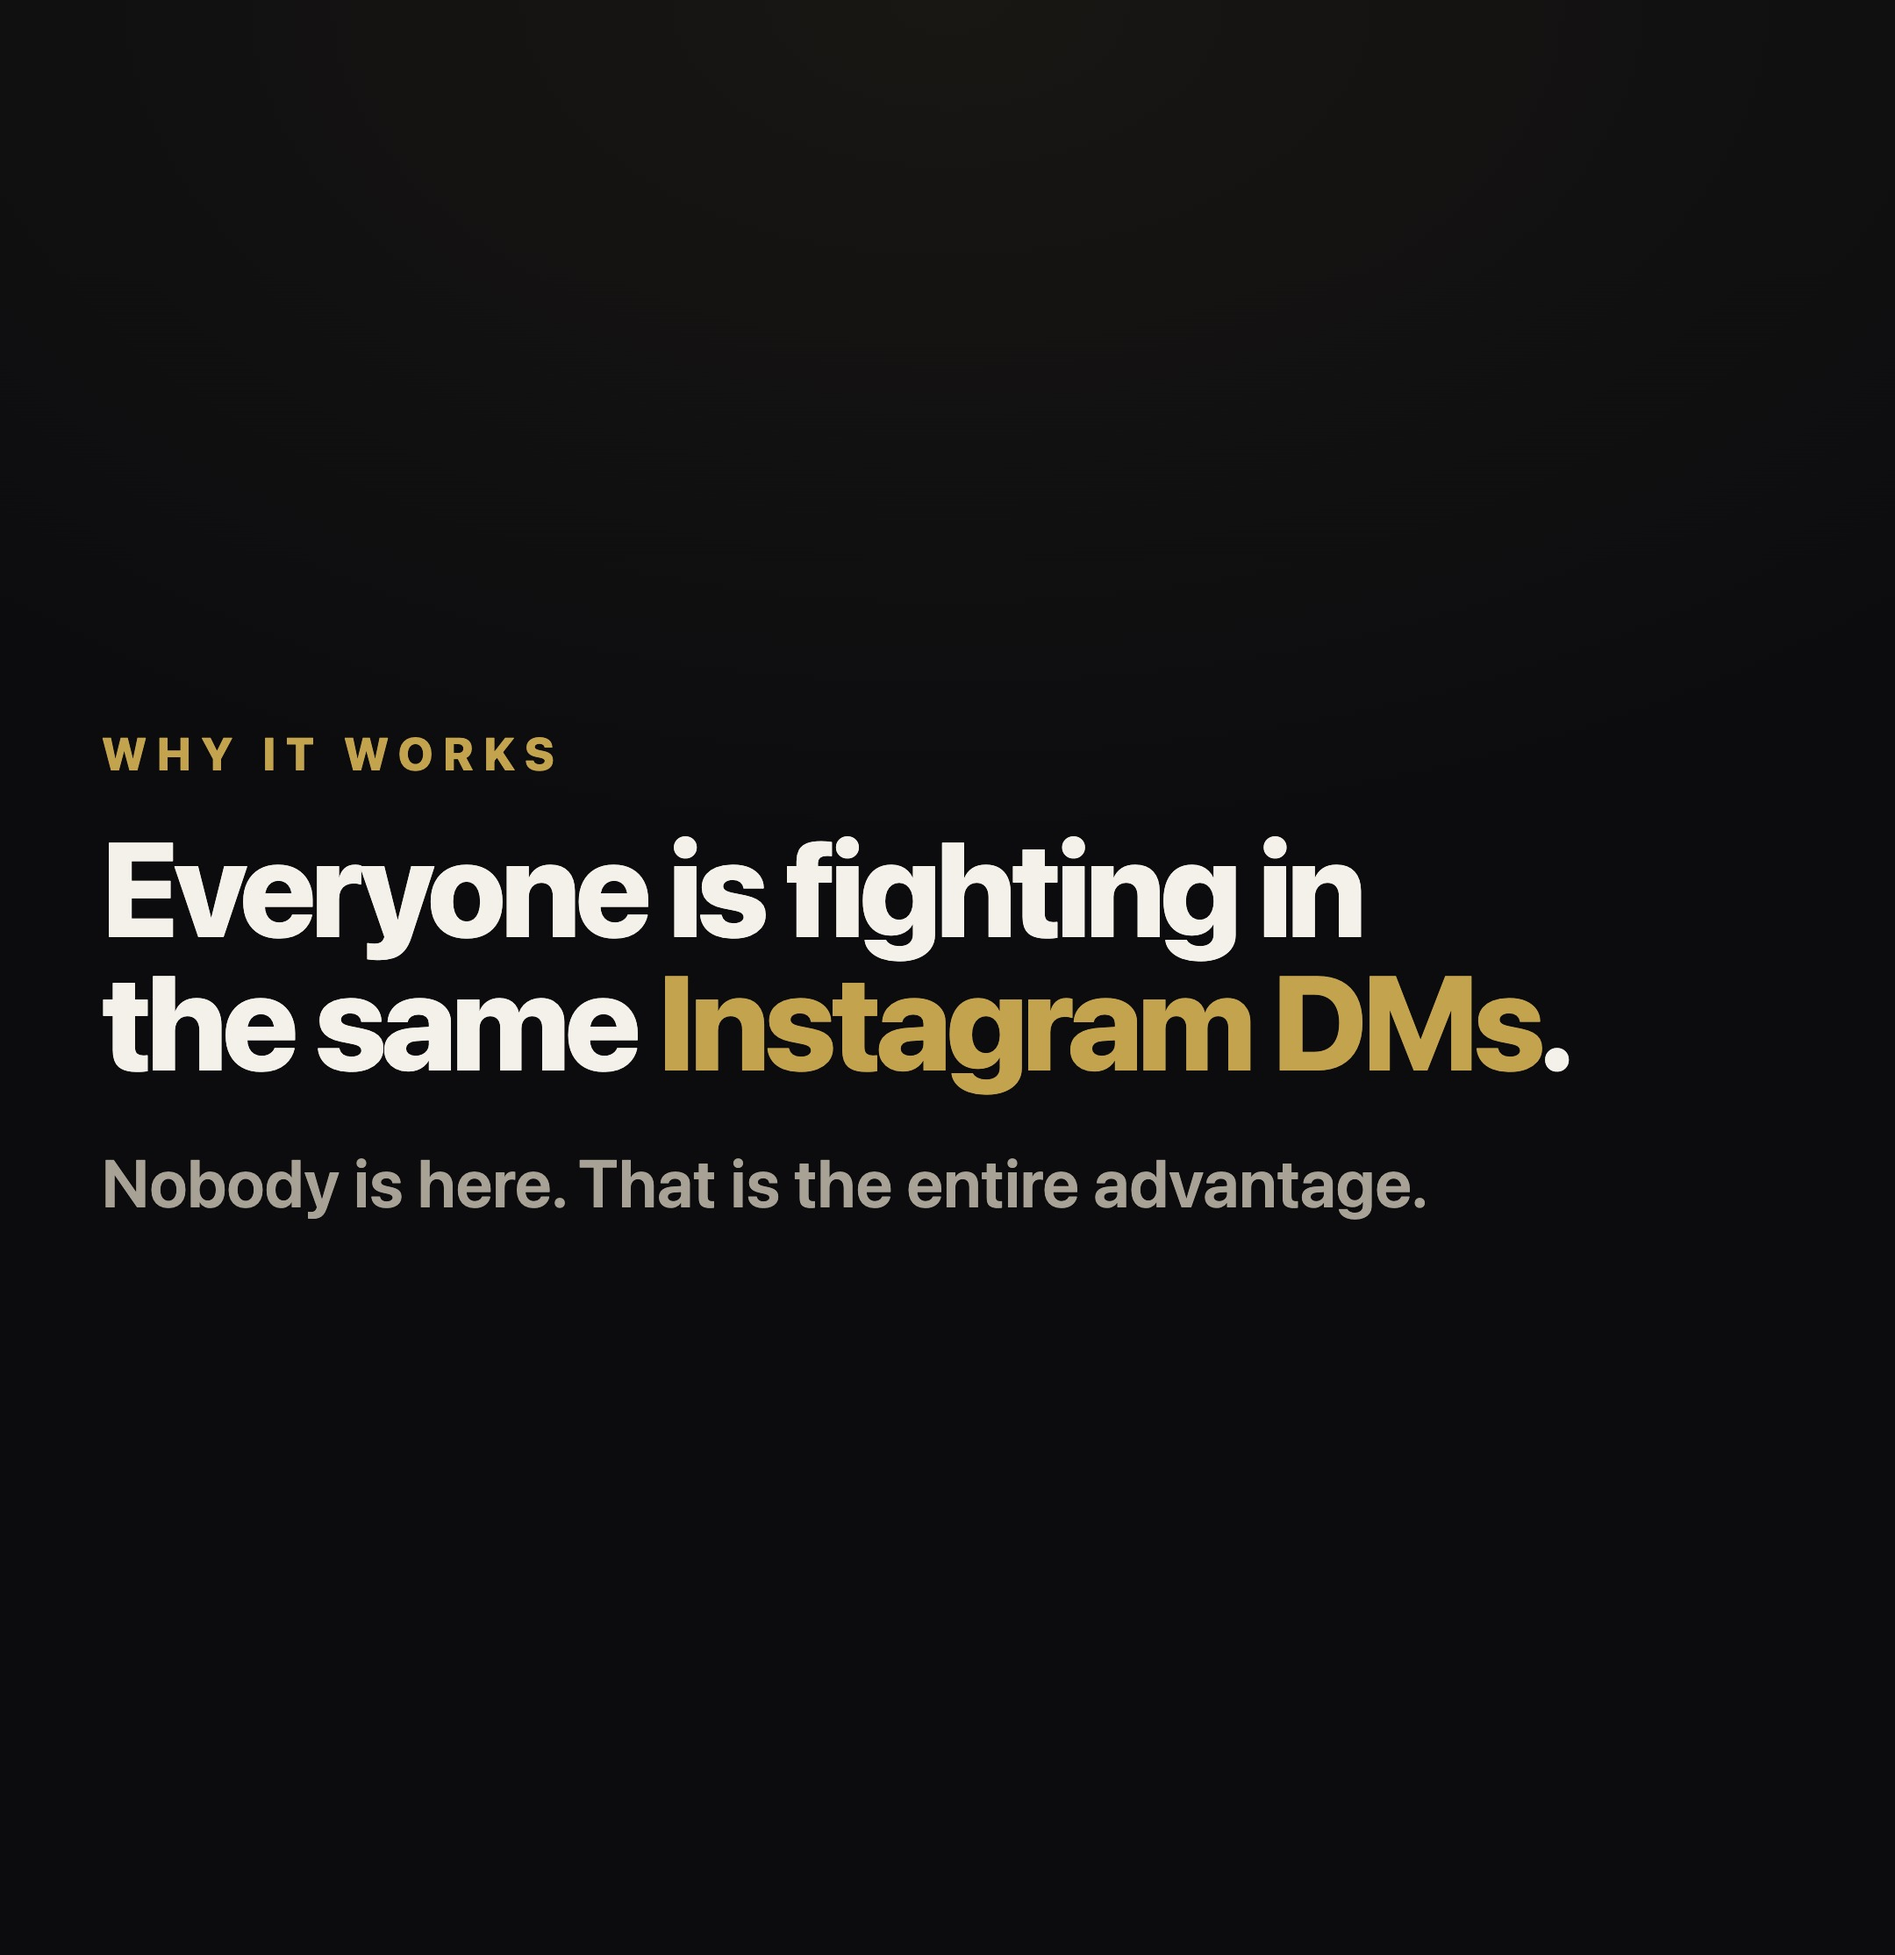
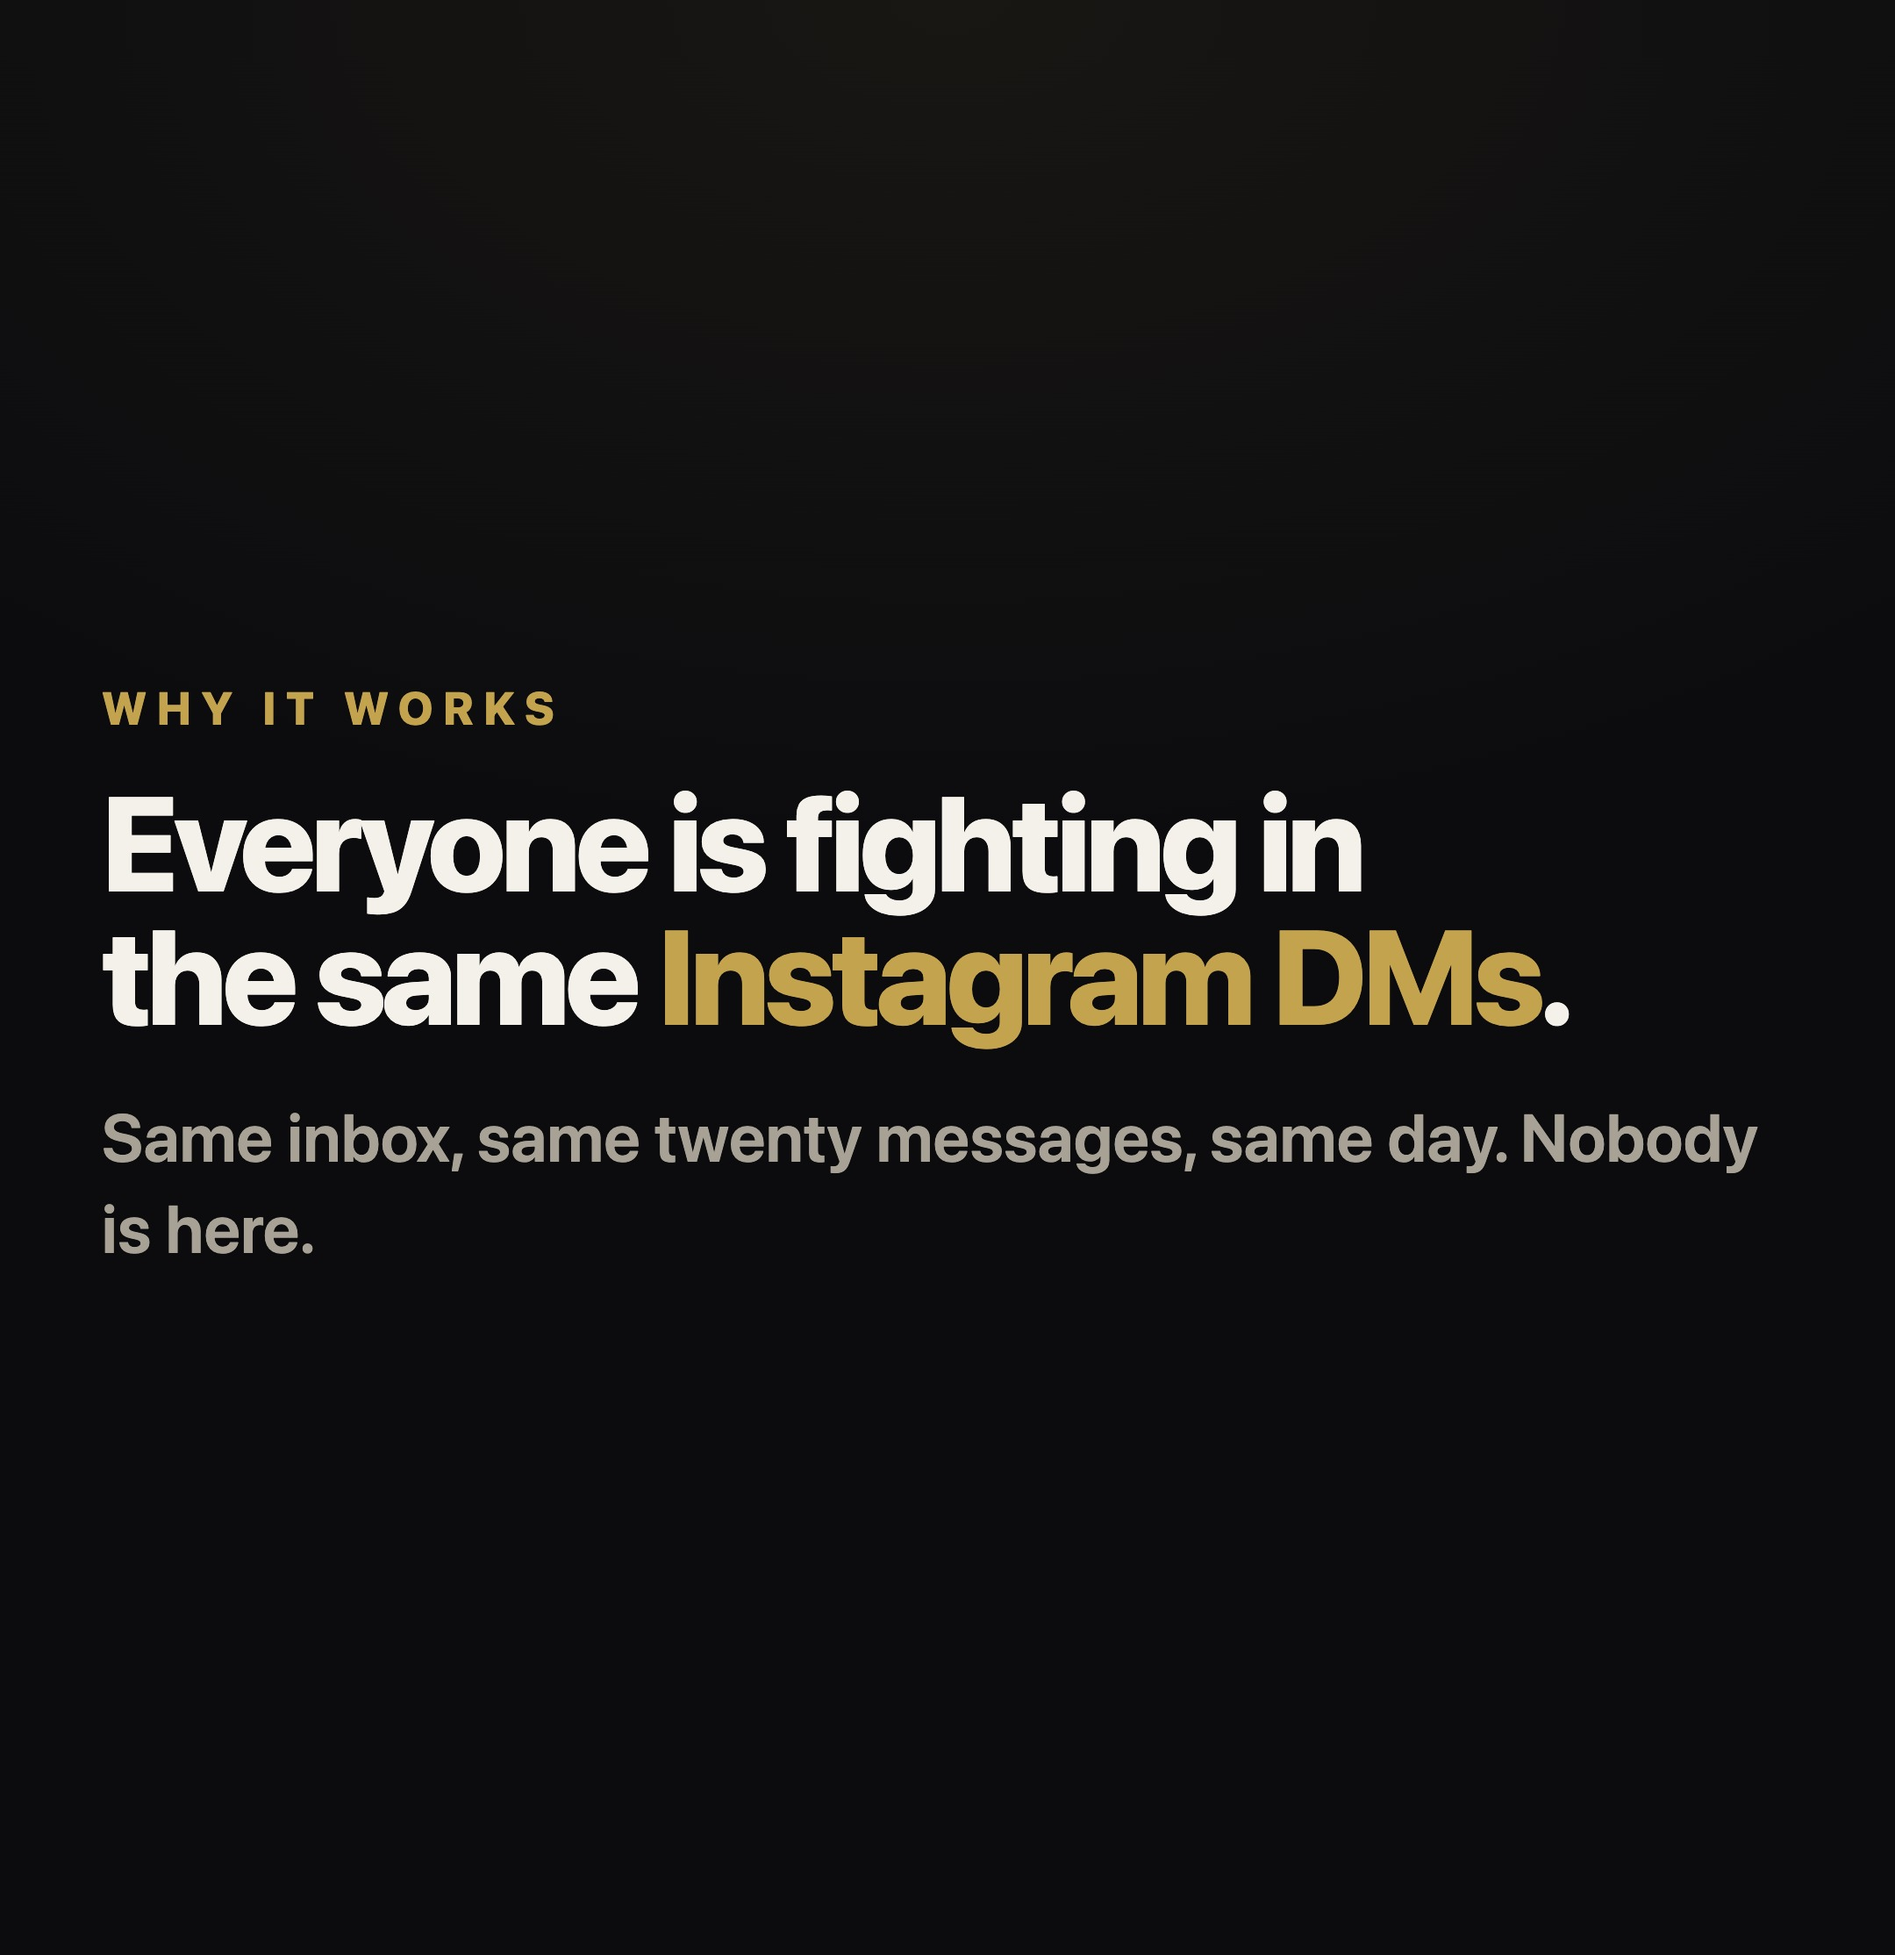
Chess board: new hook, chess.com branding, and fix the messaging beat
I had the mechanic wrong. You CAN message a chess.com member directly: open the
profile, three dots, Chat. The old version claimed you had to play them because
there was no inbox, which was simply false. Replaced with Ziyad's two screenshots
of the menu and the open chat box.

New hook per Ziyad: 'The most underrated client acquisition strategy right now is
chess.com. I'm not joking.' chess.com badge, green pawn and wordmark, on the
opening, search and CTA frames.

The angle is now stronger than the old one anyway: his Instagram has forty
pitches in it, his chess.com inbox has never had one. Same person, different odds.

Playing them first survives as advice rather than as a constraint, in a
do-it-properly frame alongside checking the profile is still alive and opening
about the chess rather than the offer.

CTA is now the full SOP: searches, swaps, picking a live profile, the opener.

13 beats.

Claude-Session: https://claude.ai/code/session_01X1ssoJRy9jKoEWSTikS6cS

Changed region(s): [[0.031, 0.3407, 0.9306, 0.6504]]

diff --git a/frames-chess.html b/frames-chess.html
@@ -6,6 +6,7 @@
 <style>
   :root{
     --gold:#C4A34F; --gold-soft:#dcc07d; --ink:#f4f1ea; --mut:#a8a296; --bg:#0c0c0f;
+    --cc:#81b64c;
     --sans:system-ui,-apple-system,"Segoe UI",Roboto,Helvetica,Arial,sans-serif;
     --mono:ui-monospace,SFMono-Regular,Menlo,Consolas,monospace;
   }
@@ -16,61 +17,74 @@
     color:var(--ink);padding:60px 58px;display:flex;flex-direction:column;justify-content:center;
     position:relative;overflow:hidden}
   .eb{font-size:26px;letter-spacing:.22em;text-transform:uppercase;color:var(--gold);font-weight:800;margin-bottom:24px}
-  h1{font-size:100px;line-height:1.0;font-weight:800;letter-spacing:-.035em;text-wrap:balance}
+  h1{font-size:96px;line-height:1.0;font-weight:800;letter-spacing:-.035em;text-wrap:balance}
   h1.sm{font-size:76px}
   h1.xs{font-size:62px}
   h1 span{color:var(--gold)}
+  h1 .cc{color:var(--cc)}
   .sub{font-size:38px;line-height:1.38;color:var(--mut);font-weight:600;margin-top:28px}
 
-  /* the search string, treated like a product */
+  /* chess.com badge, top right */
+  .cbadge{position:absolute;top:48px;right:52px;display:flex;align-items:center;gap:14px}
+  .cbadge .pawn{width:58px;height:58px;border-radius:14px;background:var(--cc);
+    display:flex;align-items:center;justify-content:center;font-size:38px;line-height:1;color:#14340a}
+  .cbadge .wm{font-size:30px;font-weight:800;letter-spacing:-.02em;color:#e8e6e1}
+  .cbadge .wm i{font-style:normal;color:var(--cc)}
+
   .q{font-family:var(--mono);font-size:40px;font-weight:700;color:var(--gold-soft);
     border:2px solid rgba(196,163,79,.45);border-radius:18px;padding:30px 28px;
     background:rgba(196,163,79,.07);line-height:1.35;word-break:break-word;margin-top:12px}
   .qnote{font-family:var(--mono);font-size:24px;color:#6f6a5c;letter-spacing:.06em;margin-top:18px}
 
-  /* swap list */
   .swaps{display:flex;flex-direction:column;gap:14px;margin-top:10px}
   .sw{border:2px solid rgba(255,255,255,.09);border-radius:16px;padding:20px 24px;
     background:rgba(255,255,255,.02);font-family:var(--mono);font-size:32px;color:var(--gold-soft)}
 
-  .steps{display:flex;flex-direction:column;gap:16px;margin-top:8px}
+  .steps{display:flex;flex-direction:column;gap:18px;margin-top:8px}
   .st{display:flex;align-items:flex-start;gap:22px}
   .st .n{font-family:var(--mono);font-size:30px;font-weight:800;color:var(--gold);
     width:54px;flex:0 0 54px;padding-top:6px}
   .st .t{font-size:40px;font-weight:700;line-height:1.25}
   .st .t small{display:block;font-size:29px;font-weight:600;color:var(--mut);margin-top:6px}
+
+  .route{display:flex;flex-direction:column;gap:12px;margin-top:14px}
+  .rt{display:flex;align-items:center;gap:18px;border:2px solid rgba(129,182,76,.35);
+    border-radius:16px;padding:20px 24px;background:rgba(129,182,76,.07);font-size:36px;font-weight:700}
+  .rt b{font-family:var(--mono);font-size:26px;color:var(--cc);font-weight:800}
 </style>
 </head>
 <body>
 
 <!-- c1 · HOOK -->
 <div class="f" id="c1">
-  <h1>I found a business owner on <span>chess.com</span>.</h1>
-  <div class="sub">On purpose.</div>
+  <div class="cbadge"><div class="pawn">&#9823;</div><div class="wm">chess<i>.com</i></div></div>
+  <h1>The most underrated client acquisition strategy right now is <span class="cc">chess.com</span>.</h1>
+  <div class="sub">I'm not joking. Give me twenty seconds.</div>
 </div>
 
 <!-- c2 · the gap -->
 <div class="f" id="c2">
   <div class="eb">Why it works</div>
   <h1 class="sm">Everyone is fighting in the same <span>Instagram DMs</span>.</h1>
-  <div class="sub">Nobody is here. That is the entire advantage.</div>
+  <div class="sub">Same inbox, same twenty messages, same day. Nobody is here.</div>
 </div>
 
 <!-- c3 · the search string -->
 <div class="f" id="c3">
+  <div class="cbadge"><div class="pawn">&#9823;</div><div class="wm">chess<i>.com</i></div></div>
   <div class="eb">Paste this into Google</div>
   <div class="q">site:chess.com/member "business"</div>
   <div class="qnote">that is it. that is the whole tool.</div>
 </div>
 
-<!-- c4 · what you are actually reading -->
+<!-- c4 · why this works at all -->
 <div class="f" id="c4">
   <div class="eb">What just happened</div>
-  <h1 class="xs">Chess.com profiles have a <span>bio</span>.<br>Google reads it.</h1>
+  <h1 class="xs">Chess.com profiles have a <span>bio</span>.<br>Google reads every one of them.</h1>
   <div class="sub">People write what they do for a living in there, and it sits on a public page nobody thinks to search.</div>
 </div>
 
-<!-- c5 · swap the word -->
+<!-- c5 · swaps -->
 <div class="f" id="c5">
   <div class="eb">Swap the word for your market</div>
   <div class="swaps">
@@ -81,34 +95,40 @@
   </div>
 </div>
 
-<!-- c6 · the turn -->
+<!-- c6 · you can just message them -->
 <div class="f" id="c6">
-  <h1 class="sm">You cannot DM him.</h1>
-  <div class="sub">There is no inbox to slide into. To talk to this man you have to <b style="color:var(--gold-soft)">play him at chess</b>.</div>
+  <div class="cbadge"><div class="pawn">&#9823;</div><div class="wm">chess<i>.com</i></div></div>
+  <h1 class="sm">And you can just <span class="cc">message them</span>.</h1>
+  <div class="route">
+    <div class="rt"><b>1</b>Open the profile</div>
+    <div class="rt"><b>2</b>Hit the three dots</div>
+    <div class="rt"><b>3</b>Chat</div>
+  </div>
 </div>
 
-<!-- c7 · why the friction is the point -->
+<!-- c7 · the angle -->
 <div class="f" id="c7">
-  <div class="eb">And that is the good part</div>
-  <h1 class="xs">Forty minutes of a stranger's <span>full attention</span>.</h1>
-  <div class="sub">No DM on earth gets that. You are in a game with him, not in a notification he swipes away.</div>
+  <div class="eb">And this is the part that matters</div>
+  <h1 class="xs">Your message is the only one in there.</h1>
+  <div class="sub">His Instagram has forty pitches in it. His chess.com inbox has never had one. Same person, completely different odds.</div>
 </div>
 
-<!-- c8 · how to actually do it -->
+<!-- c8 · how to not be weird about it -->
 <div class="f" id="c8">
-  <div class="eb">If you actually try it</div>
+  <div class="eb">Do it properly</div>
   <div class="steps">
-    <div class="st"><div class="n">1</div><div class="t">Run the search<small>swap the word for your market</small></div></div>
-    <div class="st"><div class="n">2</div><div class="t">Open a profile that is still active<small>check last online, plenty have not logged in since 2013</small></div></div>
-    <div class="st"><div class="n">3</div><div class="t">Challenge, do not pitch<small>play the game first. Talk after.</small></div></div>
+    <div class="st"><div class="n">1</div><div class="t">Check they still log in<small>plenty of these profiles have been dead since 2013</small></div></div>
+    <div class="st"><div class="n">2</div><div class="t">Play them first<small>challenge, lose, then talk. You are a person, not a pitch</small></div></div>
+    <div class="st"><div class="n">3</div><div class="t">Mention the chess, not the offer<small>you found him on a chess site. Open like a human would</small></div></div>
   </div>
 </div>
 
 <!-- c9 · CTA -->
 <div class="f" id="c9">
-  <div class="eb">The search</div>
-  <h1 class="sm">Comment <span>CHESS</span></h1>
-  <div class="sub">and I'll send you the exact string plus the swaps for your market.</div>
+  <div class="cbadge"><div class="pawn">&#9823;</div><div class="wm">chess<i>.com</i></div></div>
+  <div class="eb">The whole thing, written up</div>
+  <h1 class="sm">Comment <span class="cc">CHESS</span></h1>
+  <div class="sub">and I'll send you the full SOP: the searches, the swaps, how to pick a live profile and the exact opener.</div>
 </div>
 
 </body>

diff --git a/index.html b/index.html
@@ -236,17 +236,19 @@
     },
 
     'chess-outreach': { name: 'Chess.com outreach \u00b7 the search nobody runs', beats: [
-  {img:'img/c1.jpg', s:"I found a business owner on chess dot com. On purpose. And I can show you the exact search in about twenty seconds."},
+  {img:'img/c1.jpg', s:"The most underrated client acquisition strategy right now is chess dot com. I'm not joking. Give me twenty seconds."},
   {img:'img/c2.jpg', s:"Everyone doing outreach is fighting over the same Instagram DMs. Same inbox, same twenty messages, same day. Nobody is here."},
   {img:'img/c3.jpg', s:"Paste this into Google. site colon chess dot com slash member, in quotes, business. That is the whole tool."},
   {img:'img/c-search.png', s:"And this comes back. Real profiles, and look at the second one. I own a small business in Florida. He wrote that himself."},
-  {img:'img/c4.jpg', s:"Because chess dot com profiles have a bio, and Google reads it. People put what they do for a living in there and it sits on a public page nobody thinks to search."},
-  {img:'img/c-profile.png', s:"So you click through and you get his name, his town, his bio, and a button to contact him. That is more than most scraped lead lists give you."},
-  {img:'img/c5.jpg', s:"Swap the word for whatever market you sell to. Founder. Agency. Ecommerce. I own a. Each one pulls a different set of people."},
-  {img:'img/c6.jpg', s:"Now the bit that makes this different. You cannot DM him. There is no inbox to slide into. If you want to talk to this man you have to play him at chess."},
-  {img:'img/c7.jpg', s:"Which sounds like the problem, but it is the whole point. Forty minutes in a game is more of a stranger's attention than any DM has ever got."},
-  {img:'img/c8.jpg', s:"If you actually try it, three things. Run the search. Check they are still active, half these profiles have not logged in since twenty thirteen. And challenge them, do not pitch them. Play first, talk after."},
-  {img:'img/c9.jpg', s:"Comment CHESS and I'll send you the string and the swaps. And no, I did not win."}
+  {img:'img/c4.jpg', s:"Because chess dot com profiles have a bio, and Google reads every one of them. People put what they do for a living in there and it sits on a public page nobody thinks to search."},
+  {img:'img/c-profile.png', s:"Click through and you get his name, his town, what he does, and how to contact him. That is more than most paid lead lists give you."},
+  {img:'img/c5.jpg', s:"Swap the word for whatever market you sell to. Founder. Agency. Ecommerce. I own a. Each one pulls a completely different set of people."},
+  {img:'img/c6.jpg', s:"And you can just message them. Open the profile, hit the three dots, press chat."},
+  {img:'img/c-menu.png', s:"It is right there. Chat, or message if they are not online."},
+  {img:'img/c-chat.png', s:"And that is a direct line to a business owner, on a website nobody is prospecting on."},
+  {img:'img/c7.jpg', s:"Here is the part that actually matters. His Instagram has forty pitches sat in it. His chess dot com inbox has never had one. Same person, completely different odds."},
+  {img:'img/c8.jpg', s:"Do it properly though. Check they still log in, half these profiles have been dead since twenty thirteen. Play them first, challenge them, lose, then talk. And mention the chess, not the offer. You found him on a chess site, so open like a human would."},
+  {img:'img/c9.jpg', s:"Comment CHESS and I'll send you the full SOP. The searches, the swaps, how to pick a profile that is actually alive, and the exact opener."}
 ] },
 'jaap-pnl': {
       name: 'The 9-day P&L, line by line',
